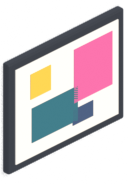
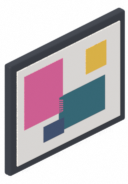
art: cuadro y neón de la pared izquierda renderizados con el giro correcto
Reemplaza los sprites "izq" espejados por renders nuevos con el frente
hacia +X y la luz correcta. build_decor.py gira la pared izquierda +90°
(respaldo en x = 0). Ancla, tam y huella_m de "izq" según
pared_izq_fix.json.

diff --git a/source_art/blender/build_decor.py b/source_art/blender/build_decor.py
@@ -197,12 +197,14 @@ def render_to(path):
 
 from PIL import Image
 meta = {"celda_m": 0.5, "nota": "sprite en (pixel_mundo(esquina mínima de la huella) - ancla), lienzo 2x; para pared, la huella x es a lo largo del muro.", "objetos": []}
+_ONLY = [x for x in os.environ.get("ONLY", "").split(",") if x]
 for oid, nombre, fn, precio in CATALOGO:
+    if _ONLY and oid not in _ONLY: continue
     root = group("D_" + oid)
     (fw, fd), tipo = fn(root)
     entry = {"id": oid, "nombre": nombre, "precio": precio, "tipo": tipo, "orientaciones": {}}
     if tipo == "pared":
-        orients = [("der", 0, (0, 0, 0)), ("izq", -90, (0, fw, 0))]
+        orients = [("der", 0, (0, 0, 0)), ("izq", 90, (fd, 0, 0))]  # izq: frente hacia +X, respaldo pegado a x=0
     else:
         orients = [("a", 0, (0, 0, 0)), ("b", 90, (fd, 0, 0))]
     for tag, rot, loc in orients:
@@ -277,5 +279,5 @@ for oid, nombre, fn, precio in CATALOGO:
 for f in ("_obj.png", "_sh.png"):
     try: os.remove(f"{OUTDIR}/{f}")
     except OSError: pass
-json.dump(meta, open(f"{OUTDIR}/decor_catalogo.json", "w"), ensure_ascii=False, indent=1)
+json.dump(meta, open(f"{OUTDIR}/decor_catalogo{'_' + '_'.join(_ONLY) if _ONLY else ''}.json", "w"), ensure_ascii=False, indent=1)
 print("DECOR OK")
